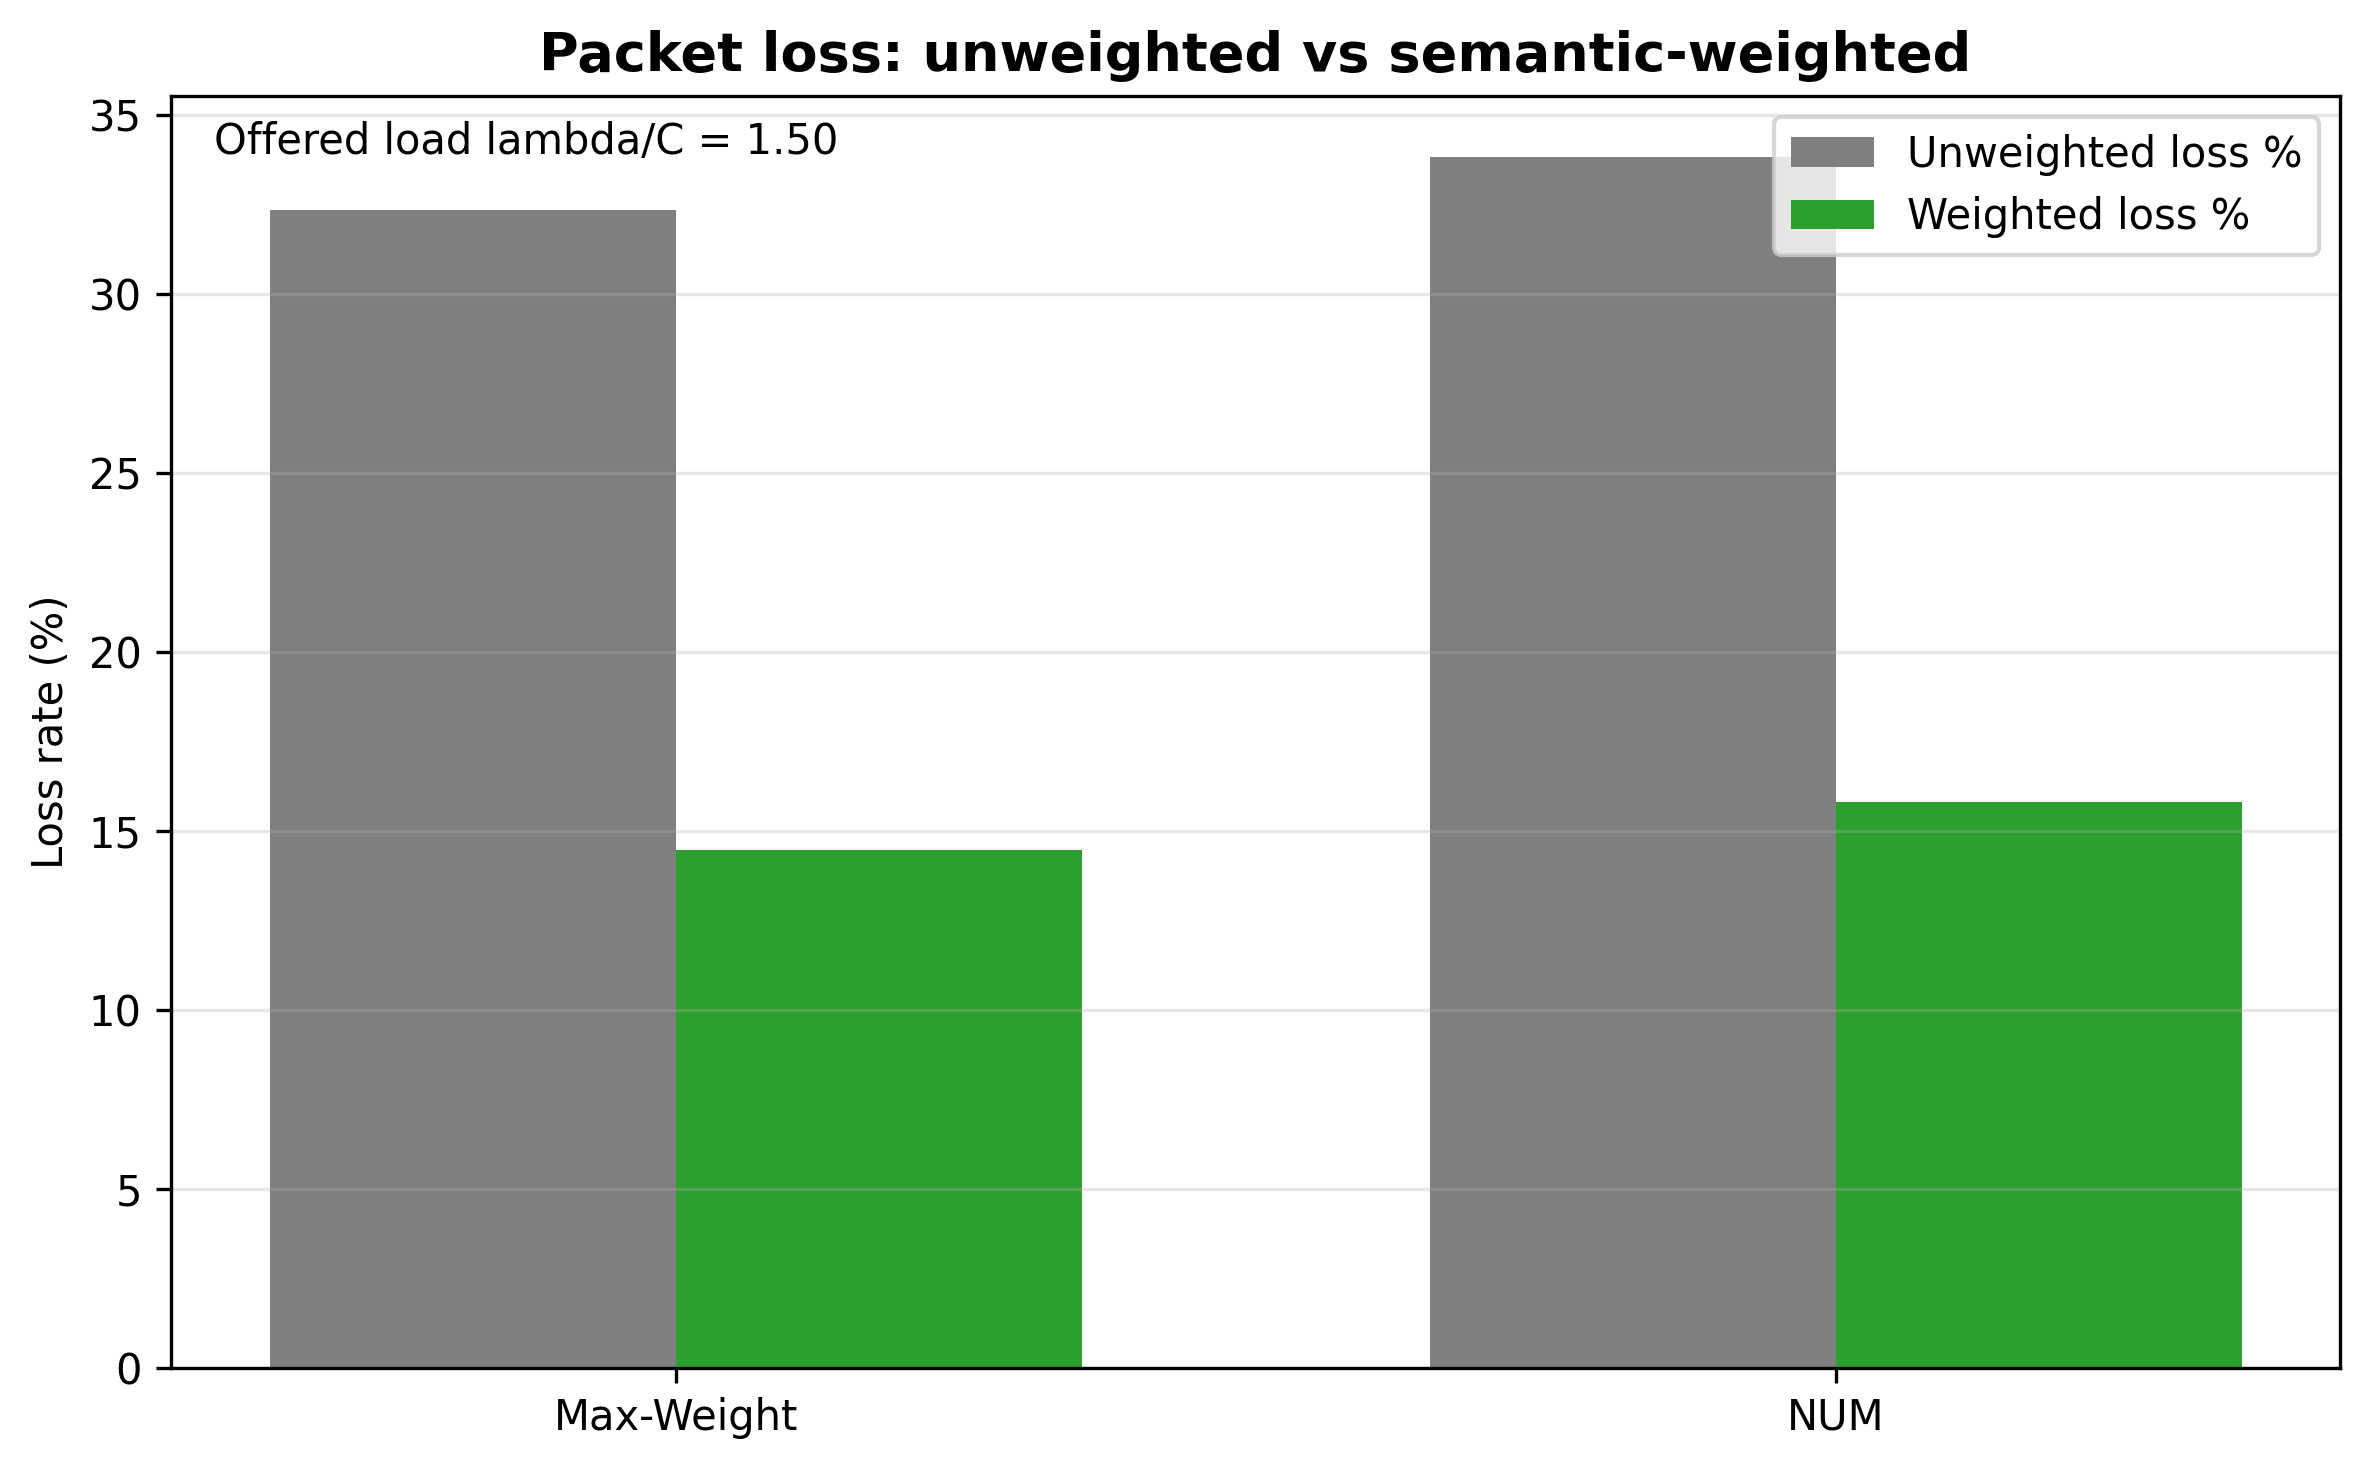
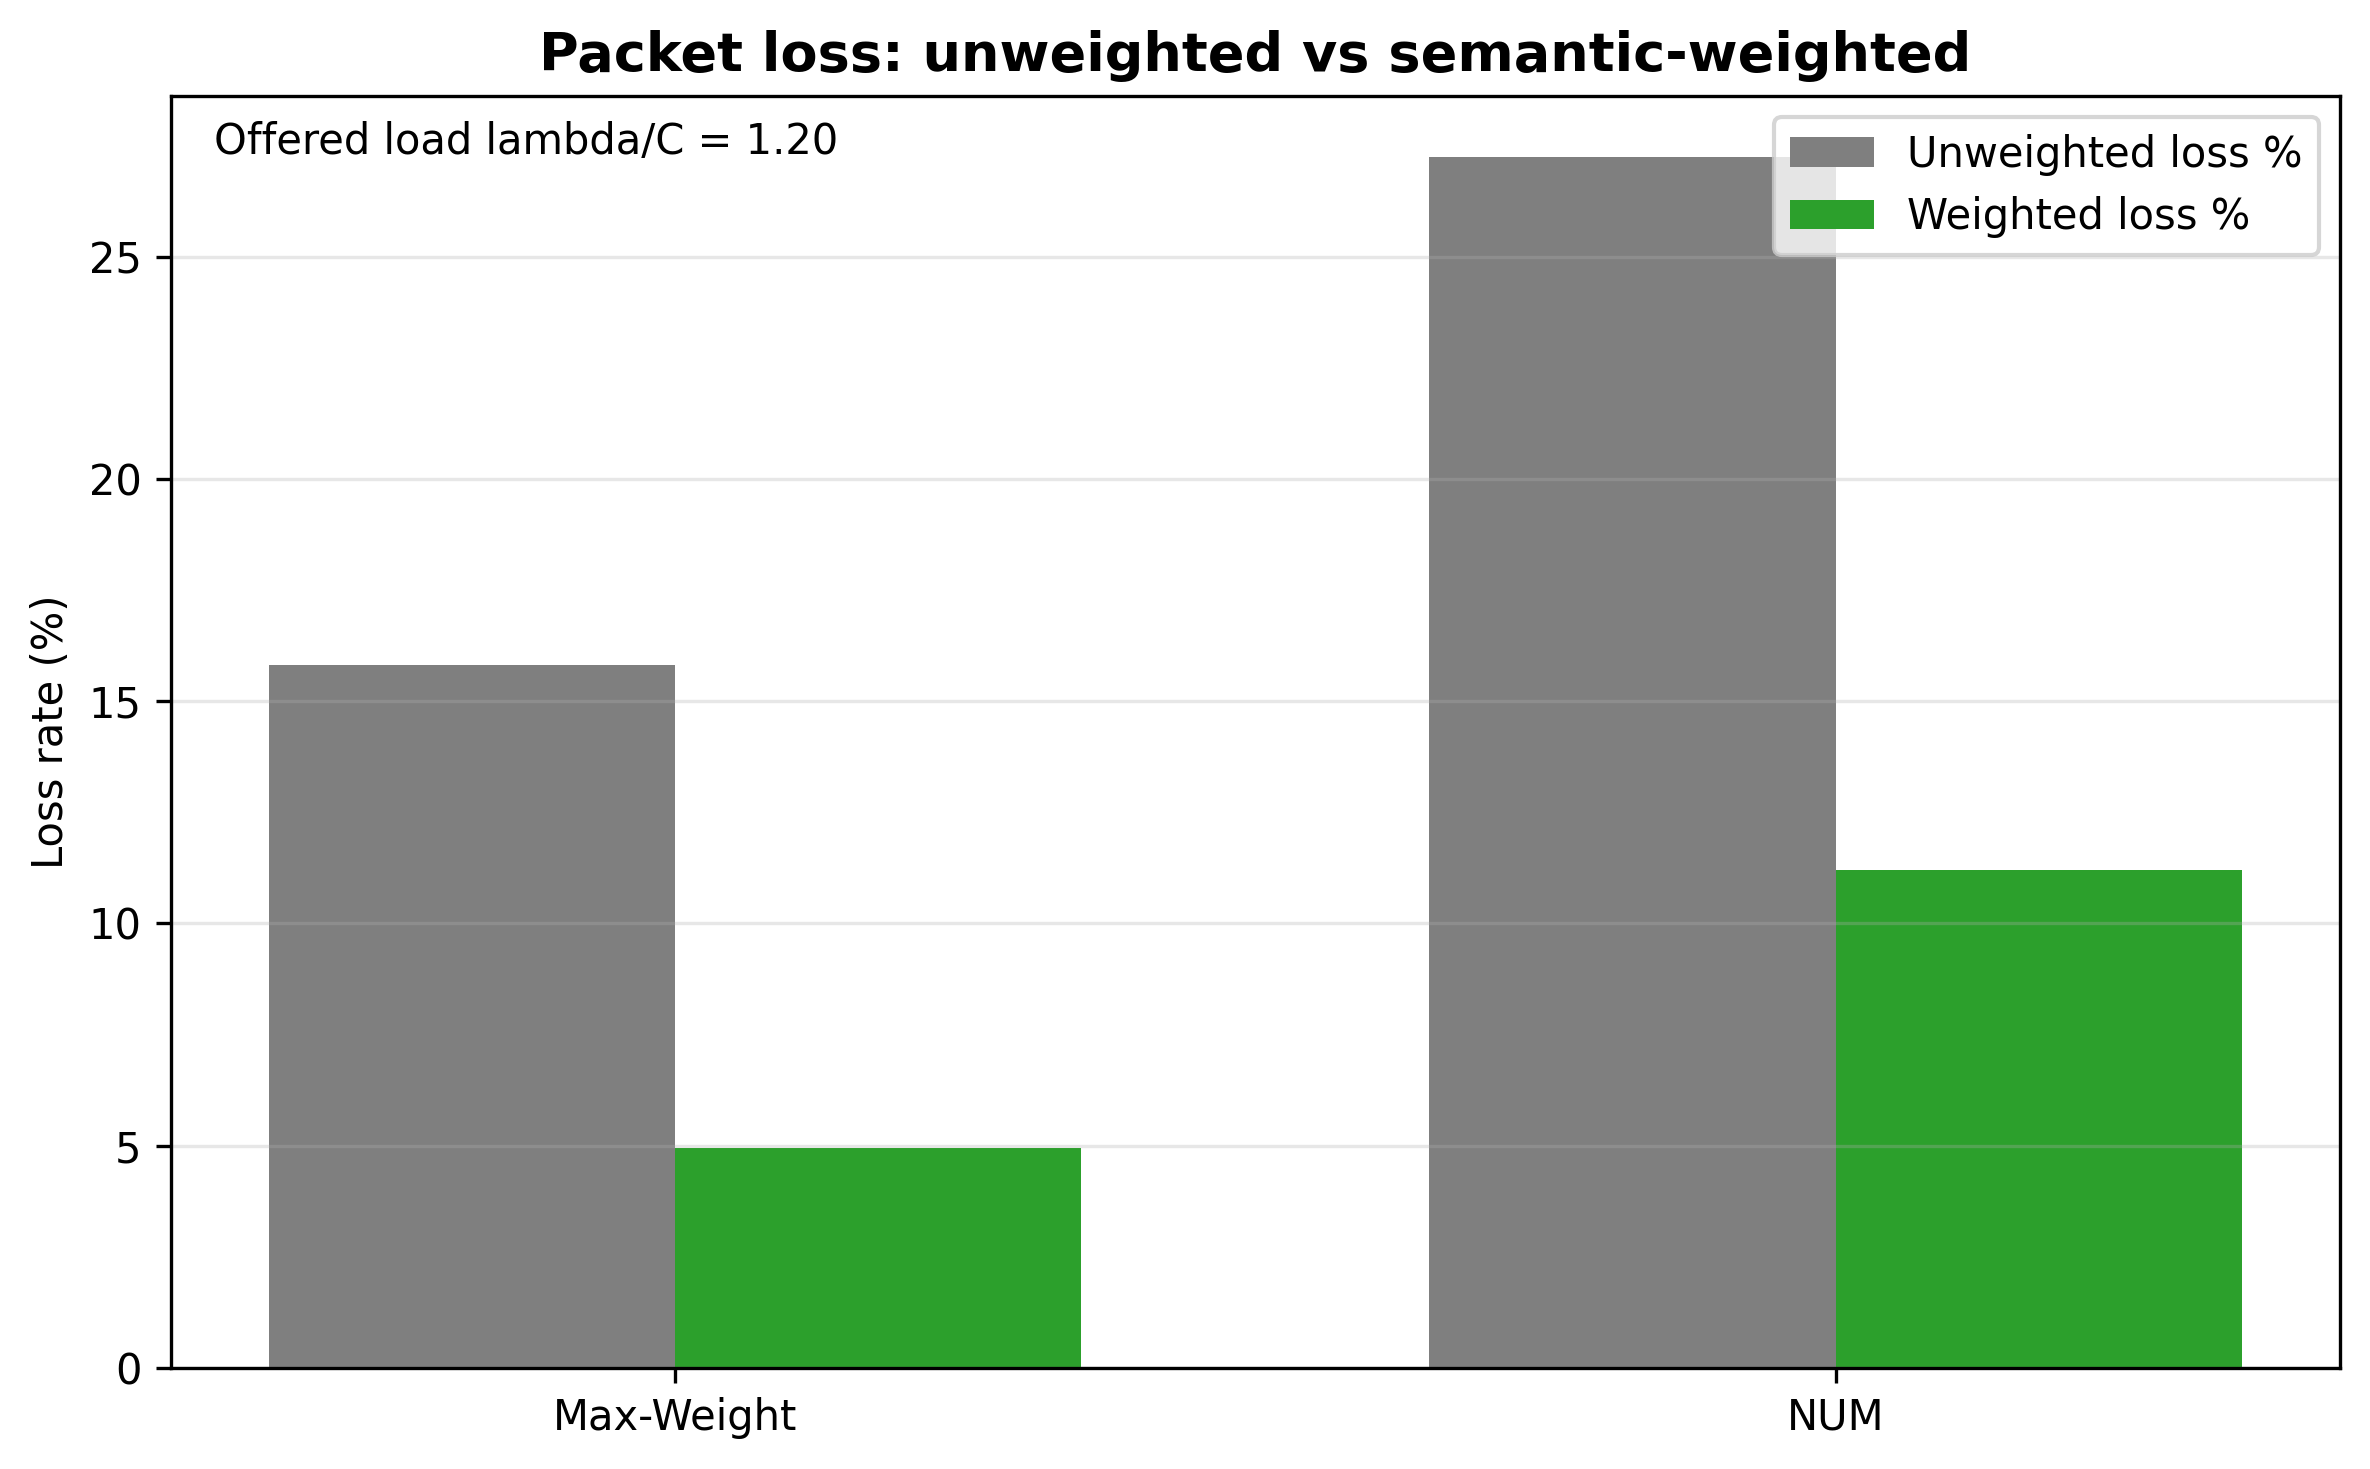
New packet loss image

diff --git a/analyze_packet_loss.py b/analyze_packet_loss.py
@@ -128,5 +128,5 @@ class PacketLossAnalysis:
 
 if __name__ == '__main__':
     analysis = PacketLossAnalysis()
-    meta = analysis.run_analysis(link_capacity=50, arrival_rate=75, sim_time=300)
+    meta = analysis.run_analysis(link_capacity=50, arrival_rate=60, sim_time=300)
     analysis.print_comparison(meta)